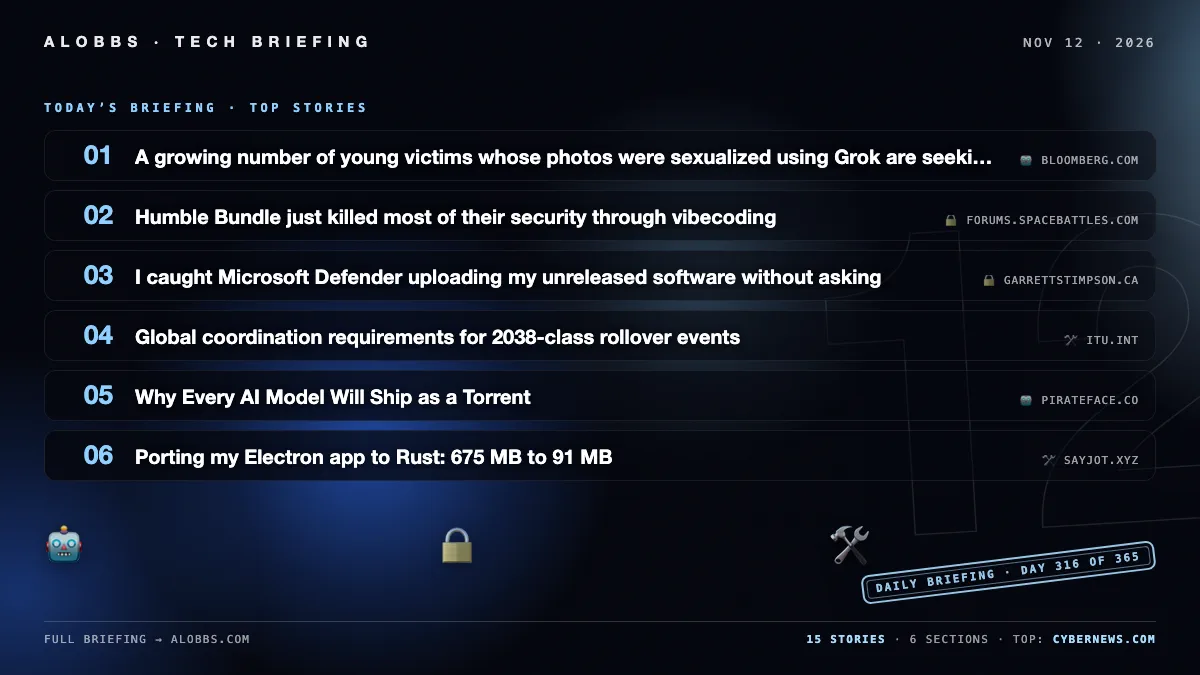
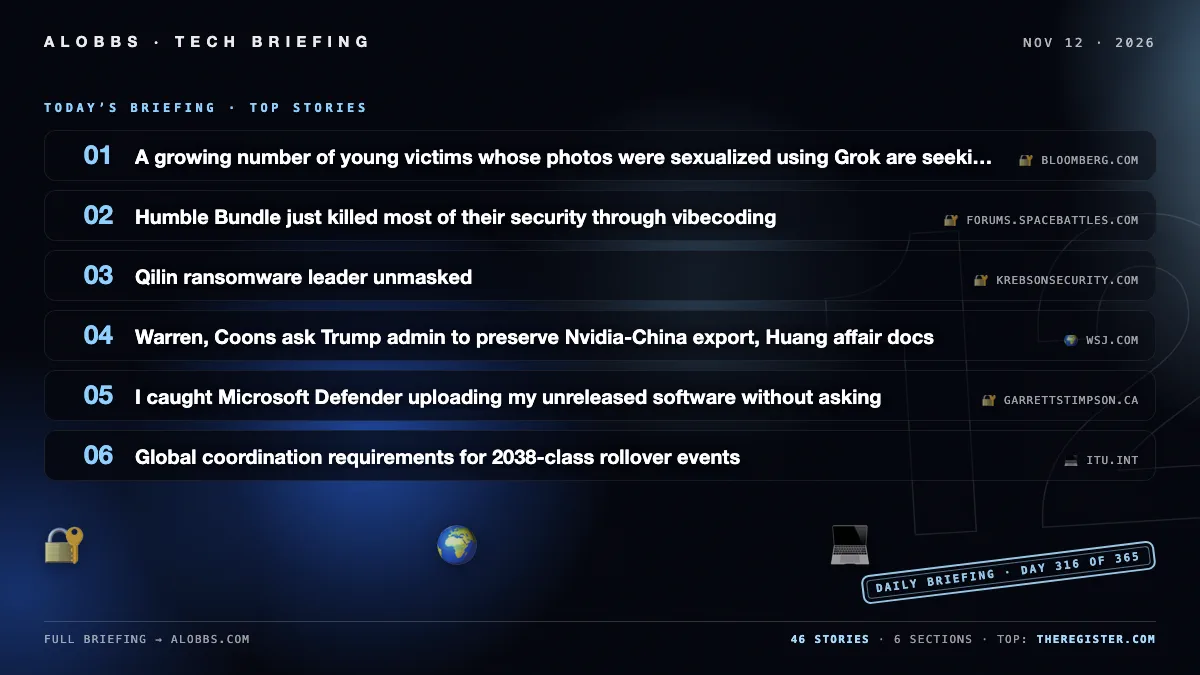
2026-11-12 briefing — 31 new (46 total)

diff --git a/content/post/2026-11-12.md b/content/post/2026-11-12.md
@@ -1,6 +1,6 @@
 ---
 title: "2026-11-12 Briefing"
-date: 2026-11-12 12:02:24.984910
+date: 2026-11-12 12:53:12.897627
 draft: false
 categories: [ "Briefing" ]
 params:
@@ -8,11 +8,11 @@ params:
 cover: "/images/briefings/2026-11-12.webp"
 ---
 
-Leaked files show ex-Marine John Mark Dougan used Claude to mass-produce pro-Russian articles and evade AI detection. Ukraine and Germany dismantled a call-center network behind a €4.3M fake crypto scam, arresting four. Microsoft Defender silently uploaded 217 samples, including unreleased software, from a developer’s PC. Jot’s Electron-to-Rust rewrite cut its app from 675MB to 91MB.
+An Israeli strike on a Gaza hospital killed six, health authorities said. Researchers unmasked Qilin’s alleged administrator, Aleksey Yakovtsev, as the ransomware gang claimed 365 victims in three months. ConnectWise is investigating ScreenConnect attacks via risky extensions, while Amplifon disclosed a breach exposing customer health data. Leaked files also show a former US marine used Claude to mass-produce pro-Russian articles.
 
 <!--more-->
 
-## 🤖 AI Models & Risks
+## 🤖 AI & Machine Learning
 
 ### Leak reveals how former US marine tried to trick Claude into spreading pro-Russian propaganda
 
@@ -26,13 +26,56 @@ The article argues that AI models are well-suited to torrent distribution becaus
 
 - [Why Every AI Model Will Ship as a Torrent](https://pirateface.co/articles/every-ai-model-should-be-a-torrent) — *pirateface.co*
 
-### A growing number of young victims whose photos were sexualized using Grok are seeking to hold xAI...
+### A2UI 1.0
 
-A growing number of young victims whose photos were sexualized using Grok are seeking to hold xAI legally accountable, according to Bloomberg. The cases center on allegations that xAI allowed users to generate such images.
+A2UI 1.0 is the first stable release of an open protocol for generative UI that lets AI agents respond with interactive screens such as forms and charts instead of text-only answers. It includes open-source renderer SDKs for web, Android, and iOS and agent SDKs for Python, TypeScript, and Dart. Companies including Atlassian, Alation, Bloomberg, and ByteDance are already building with it, enabling native, secure, low-latency UI across apps and platforms.
 
-- [A growing number of young victims whose photos were sexualized using Grok are seeking to hold xAI...](https://www.bloomberg.com/features/2026-grok-sexualized-childhood-photos/?accessToken=eyJhbGciOiJIUzI1NiIsInR5cCI6IkpXVCJ9.eyJzb3VyY2UiOiJTdWJzY3JpYmVyR2lmdGVkQXJ0aWNsZSIsImlhdCI6MTc5NDQwNTgwMiwiZXhwIjoxNzk1MDEwNjAyLCJhcnRpY2xlSWQiOiJUT0NBVUxLSUpIOTMwMCIsImJjb25uZWN0SWQiOiJCNzYzRUJEQUI3QjQ0MjNEOTI0Qzc0MzFBNTkyMkZCQyJ9.iQrQRGwQgxw2Q_MsneYnaVoUsKDdoN0XNrxTO4zRiPg) — *bloomberg.com*
+- [A2UI 1.0](https://developers.googleblog.com/a2ui-10-build-delightful-fast-reliable-agentic-experiences/) — *developers.googleblog.com*
 
-## 🔒 Cybersecurity & Privacy
+### Google launches Tabletop, experimental AI platform for collaborative personal planning, in beta
+
+Google has launched Tabletop, an experimental AI platform in beta via waitlist, for building customizable, collaborative personal planning hubs. Users can prompt the AI or choose templates to generate interactive tools like itineraries, polls, expense splitters, and chore charts, then share invite links for real-time collaboration. The beta is currently limited to US users over 18.
+
+- [Google launches Tabletop, experimental AI platform for collaborative personal planning, in beta](https://www.theverge.com/tech/1031526/google-tabletop-ai-experiment-waitlist-availability) — *theverge.com*
+
+### AI 'handoverism': humanity entrusting its future to AI, and what it could look like in practice
+
+The article examines “handoverism” in the AI community—the idea that humanity should entrust the direction of its future to a benevolent superintelligent AI—and notes that even optimistic post-AGI visions leave little room for human self-determination. It describes how some AI builders treat permanent human disempowerment as a resigned alternative to extinction, while raising unresolved questions about democracy, consent, and the displacement of human labor.
+
+- [AI 'handoverism': humanity entrusting its future to AI, and what it could look like in practice](https://www.writingruxandrabio.com/p/handing-over-humanity) — *writingruxandrabio.com*
+
+### Radical Numerics unveils Omnii Defense, offline edge AI to identify natural, AI-made pathogens
+
+Radical Numerics has unveiled Omnii Defense, an edge AI model it says can identify natural and AI-engineered pathogens using a laptop and USB gene sequencer without an internet connection. The startup hopes the tool will help researchers and public health officials detect emerging biological threats, amid warnings that AI could aid bioweapon development.
+
+- [Radical Numerics unveils Omnii Defense, offline edge AI to identify natural, AI-made pathogens](https://www.wired.com/story/startup-fights-ai-bioweapons-with-ai/) — *wired.com*
+
+### Your AI agent is only as good as your endpoint data
+
+The article argues that AI agents are only as effective as the endpoint data they rely on. It says real-time endpoint data keeps AI-driven IT operations accurate, fast, and under control.
+
+- [Your AI agent is only as good as your endpoint data](https://www.theregister.com/ai-and-ml/2026/11/12/partner-content-your-ai-agent-is-only-as-good-as-your-endpoint-data/5308469) — *theregister.com*
+
+## 🔐 Security & Privacy
+
+### IT firms and their clients hit: hackers hijack ScreenConnect, seize remote control
+
+ConnectWise is investigating attacks that compromised ScreenConnect customer environments through suspected third-party extensions, flagging five add-ons and identifying about 400 partner environments with at least one installed. Sophos found attackers installing rogue ScreenConnect clients to gain remote control and hide activity. ConnectWise says it found no evidence of a ConnectWise infrastructure compromise or ScreenConnect vulnerability, and urges partners to disable risky extensions, check logs, revoke sessions, enforce MFA, and isolate affected devices.
+
+- [IT firms and their clients hit: hackers hijack ScreenConnect, seize remote control](https://cybernews.com/security/screenconnect-hijacking-hackers-rogue-software-connectwise/) — *cybernews.com*
+
+### Qilin ransomware leader unmasked
+
+Qilin has become the world’s most active ransomware-as-a-service gang, claiming at least 365 victim organizations in the past three months. Researchers, including Krebs on Security, allege the group is administered by 36-year-old Aleksey Mikhailovich Yakovtsev of St. Petersburg, linking his aliases through operational-security mistakes, hacked forum messages, Telegram usernames, and leaked Russian government records. No law enforcement agency has confirmed the findings, and Russia-based suspects remain difficult to arrest.
+
+- [Russia's Qilin, world's most active ransomware gang, likely led by Aleksey Yakovtsev, 36](https://krebsonsecurity.com/2026/11/who-runs-the-ransomware-group-qilin/) — *krebsonsecurity.com*
+- [Cyber pros unmask Qilin ransomware administrator as St. Petersburg man](https://cybernews.com/security/qilin-ransomware-administrator-unmasked/) — *cybernews.com*
+
+### Amplifon probes data breach affecting customers’ personal and health records
+
+Amplifon has disclosed a data breach in which attackers stole files from multiple systems between January 18 and February 8, exposing customers’ names, contact details, birth dates, driver’s license data, and medical or hearing information. The company says it disabled affected accounts and increased monitoring after detecting suspicious activity. Some law firms claim more than 1.3 million people were affected, but Amplifon has not confirmed that figure.
+
+- [Amplifon probes data breach affecting customers’ personal and health records](https://cybernews.com/news/amplifon-investigates-data-breach-affecting-customers-personal-and-health-records/) — *cybernews.com*
 
 ### Ukraine busts call center network behind €4.3M investment scam
 
@@ -58,7 +101,31 @@ Russian pranksters posing as Ukrainian officials tricked three OpenAI national s
 
 - [Russian pranksters tricked three OpenAI natsec and policy executives into a video meeting by posi...](https://theintercept.com/2026/11/11/openai-ukraine-russia-prank-security/) — *theintercept.com*
 
-## 🐧 Linux & FOSS
+### A growing number of young victims whose photos were sexualized using Grok are seeking to hold xAI...
+
+A growing number of young victims whose photos were sexualized using Grok are seeking to hold xAI legally accountable, according to Bloomberg. The cases center on allegations that xAI allowed users to generate such images.
+
+- [A growing number of young victims whose photos were sexualized using Grok are seeking to hold xAI...](https://www.bloomberg.com/features/2026-grok-sexualized-childhood-photos/?accessToken=eyJhbGciOiJIUzI1NiIsInR5cCI6IkpXVCJ9.eyJzb3VyY2UiOiJTdWJzY3JpYmVyR2lmdGVkQXJ0aWNsZSIsImlhdCI6MTc5NDQwNTgwMiwiZXhwIjoxNzk1MDEwNjAyLCJhcnRpY2xlSWQiOiJUT0NBVUxLSUpIOTMwMCIsImJjb25uZWN0SWQiOiJCNzYzRUJEQUI3QjQ0MjNEOTI0Qzc0MzFBNTkyMkZCQyJ9.iQrQRGwQgxw2Q_MsneYnaVoUsKDdoN0XNrxTO4zRiPg) — *bloomberg.com*
+
+### Hijacking Samsung TV Smart Hub Ads
+
+A Samsung TV owner describes using mitmproxy and the compromised eMudhra CA certificate to intercept the TV’s Smart Hub ad traffic after Pi-hole blocking broke. By routing the TV through a Raspberry Pi transparent proxy, they exploited the trusted but compromised CA certificate to intercept TLS traffic because the TV does not allow custom certificates. The article notes this was possible because Samsung had not yet updated its truststore to revoke the certificate.
+
+- [Hijacking Samsung TV Smart Hub Ads](https://dvratil.cz/2026/11/hijacking-samsung-tv-smart-hub-ads/) — *dvratil.cz*
+
+### Disgraced former CA eMudhra blames buggy script for hopelessly weak certificates
+
+The disgraced former certificate authority eMudhra has blamed a buggy script for producing hopelessly weak certificates. It reportedly could not get the hardware needed to generate certificates and tried to code a workaround.
+
+- [Disgraced former CA eMudhra blames buggy script for hopelessly weak certificates](https://www.theregister.com/security/2026/11/12/disgraced-former-ca-emudhra-blames-buggy-script-for-hopelessly-weak-certificates/5309244) — *theregister.com*
+
+### Another Way Police Are Locating People from Their Smartphones
+
+Penlink’s Webloc is a police-sold tool that collects smartphone location data from commonly used weather, gaming, email, and religious apps. It can build a detailed 12-month location history, update hourly for near real-time tracking, and let law enforcement identify all phones present at a specific place and time.
+
+- [Another Way Police Are Locating People from Their Smartphones](https://www.schneier.com/blog/archives/2026/11/another-way-police-are-locating-people-from-their-smartphones.html) — *schneier.com*
+
+## 💻 Software & Development
 
 ### I'm Working on a FOSS Linux Pinbal Simulation Engine
 
@@ -66,19 +133,11 @@ The developer of a fully FOSS Linux pinball simulation engine reports recent pro
 
 - [I'm Working on a FOSS Linux Pinbal Simulation Engine](https://www.getlazarus.org/forums/topic/17/) — *getlazarus.org*
 
-### Polo Debuts As New Wayland Compositor For MATE Desktop
+### Darling Development Update – Q4 2026
 
-Polo 1.0 has been released as a new Wayland compositor for the MATE desktop. It aims to replicate MATE’s X11 behavior using Marco’s window-management policies, settings, and themes while building on Weston, with XWayland support. Developed by MATE user Kerem Söke, Polo also supports GNOME 2-style effects such as the desktop cube and wobbly windows.
+Darling’s Q4 2026 update covers a new policy on AI-assisted contributions, initial ARM64 support, and plans for future work. The project adopted the AI policy after AI-heavy forks showed strong progress, arguing that refusing AI would leave Darling insignificant and fragment the community. The policy requires contributors to take responsibility for every line in their pull requests and explain it in their own words.
 
-- [Polo Debuts As New Wayland Compositor For MATE Desktop](https://www.phoronix.com/news/Polo-Wayland-Compositor-MATE) — *phoronix.com*
-
-### Orbit Global Menu: A working global menu addon for GNOME
-
-Orbit Global Menu is a working global menu add-on for GNOME. The publication likes the extension but suspects it will be divisive among users, comparing it to Marmite.
-
-- [Orbit Global Menu: A working global menu addon for GNOME](https://www.theregister.com/os-platforms/2026/11/12/orbit-global-menu-a-working-global-menu-addon-for-gnome/5309134) — *theregister.com*
-
-## 🛠 Software Engineering
+- [Darling Development Update – Q4 2026](https://blog.darlinghq.org/2026/11/08/development-update-q4-2026/) — *blog.darlinghq.org*
 
 ### Lean Grimoire
 
@@ -92,15 +151,130 @@ Jot, a Mac capture app, was ported from Electron to Rust using the Rune GPU UI f
 
 - [Porting my Electron app to Rust: 675 MB to 91 MB](https://sayjot.xyz/blog/rust-port) — *sayjot.xyz*
 
+### Adapting CPython for yk
+
+The author adapted the yk meta-tracing JIT to CPython, producing ykcpython, which showed meaningful benchmark gains after roughly 3–4 days of ykcpython work plus about a week and a half of generic yk bug fixes. On the AWFY suite, ykcpython was faster than normal CPython on every benchmark except DeltaBlue and faster than CPython’s experimental JIT on 8 of 13 benchmarks. The author stresses that ykcpython is not production-ready and that benchmark results do not guarantee real-world performance.
+
+- [Adapting CPython for yk](https://tratt.net/laurie/blog/2026/adapting_cpython_for_yk.html) — *tratt.net*
+
+### Creating Diagrams and Graphs Using Modern CSS
+
+The article explores using CSS `border-shape` and `shape()` to draw dynamic connections between elements for graphs and diagrams, selecting the closest sides and switching to center-to-center links when elements are close. It presents conditional CSS code for multiple orientations and distances, noting the technique is experimental and currently fully supported only in Chrome and Edge.
+
+- [Creating Diagrams and Graphs Using Modern CSS](https://blog.master.dev/creating-diagrams-and-graphs-using-modern-css/) — *blog.master.dev*
+
 ### Global coordination requirements for 2038-class rollover events
 
-Technical Paper ITU-T XSTP.epoch consolidates global understanding of risks associated with a
-cluster of structurally distinct timekeeping discontinuities arriving between 2036 and 2038, with
-the 2106 horizon treated as a long-tail consideration (collectively referred to as 2038-class risks).
+A new ITU-T technical paper, XSTP.epoch, consolidates global understanding of the risks posed by a cluster of structurally distinct timekeeping discontinuities expected between 2036 and 2038. These events, collectively called 2038-class risks, require global coordination, while the 2106 horizon is treated as a long-term consideration.
 
 - [Global coordination requirements for 2038-class rollover events](https://www.itu.int/pub/T-TUT-ICTS-2026-6) — *itu.int*
 
-## 🌍 Tech Policy & Sovereignty
+### Microsoft admits SQL Servers might wobble after October update
+
+Microsoft has acknowledged that SQL Servers may experience issues following its October update, with linked server connections lingering longer than expected. The problem can leave connections open well past their intended duration.
+
+- [Microsoft admits SQL Servers might wobble after October update](https://www.theregister.com/databases/2026/11/12/microsoft-admits-sql-servers-might-wobble-after-october-update/5309349) — *theregister.com*
+
+### Orbit Global Menu: A working global menu addon for GNOME
+
+Orbit Global Menu is a working global menu add-on for GNOME. The publication likes the extension but suspects it will be divisive among users, comparing it to Marmite.
+
+- [Orbit Global Menu: A working global menu addon for GNOME](https://www.theregister.com/os-platforms/2026/11/12/orbit-global-menu-a-working-global-menu-addon-for-gnome/5309134) — *theregister.com*
+
+## 💵 Business & Funding
+
+### Nvidia's Disappearing Singapore Sales Deepen Mystery Around Megaspeed
+
+Singapore was one of Nvidia’s largest markets, generating 22% of its revenue as recently as last summer, before disappearing from the company’s financial disclosures almost overnight. The article says investors deserve an explanation for the sudden change and that Nvidia needs to address it.
+
+- [Nvidia's Disappearing Singapore Sales Deepen Mystery Around Megaspeed](https://www.wsj.com/business/earnings/nvidias-disappearing-singapore-sales-deepen-mystery-around-megaspeed-7d483180) — *wsj.com*
+
+### SE3 raises $30M Series A led by Accel for 3D battlefield mapping software
+
+SE3, a Munich-based startup developing AI software for drones and unmanned military systems, has raised $30 million in a Series A led by Accel, with Keen, Lakestar and Seedcamp participating. Its software fuses video and sensor feeds into a 3D battlefield map that soldiers can query and command in natural language, and provides onboard AI for GPS-denied navigation, object detection and drone swarming. SE3 has contracts with Germany’s Bundeswehr and in Ukraine, uses classical computer vision with a harnessed language model, runs offline, is hardware-agnostic, and is subject to German export laws.
+
+- [SE3 raises $30M Series A led by Accel for 3D battlefield mapping software](https://fortune.com/2026/11/12/exclusive-se3-a-munich-startup-building-spatial-intelligence-for-military-drones-gets-30-million-in-series-a-funding/) — *fortune.com*
+
+### Q-Ctrl raises $290M at $1B+ valuation for GPS-free ship and aircraft navigation sensors
+
+Q-Ctrl, an Australian quantum software startup developing sensors that help ships and aircraft navigate when GPS is unavailable, raised $290 million in a funding round led by Salesforce Ventures. The round values the company at more than $1 billion.
+
+- [Q-Ctrl raises $290M at $1B+ valuation for GPS-free ship and aircraft navigation sensors](https://www.bloomberg.com/news/articles/2026-11-12/kushner-s-affinity-salesforce-back-quantum-startup-q-ctrl-in-290-million-round) — *bloomberg.com*
+
+### Sources: Alice Huang’s husband/biz partner discussed her Jensen Huang relationship; introduced them
+
+Kang Wei, Alice Huang’s husband, introduced her to Nvidia CEO Jensen Huang, whom Kang had known for a decade. For two years, Kang appeared to accept his wife’s romantic relationship with Jensen and spoke openly about their closeness, sometimes joking she was the CEO’s personal assistant. The introduction exemplifies how Kang and Alice leveraged personal connections to advance business ventures across China, Singapore, Taiwan, and elsewhere.
+
+- [Sources: Alice Huang’s husband/biz partner discussed her Jensen Huang relationship; introduced them](https://www.wsj.com/tech/ai/a-mystery-businessman-introduced-jensen-huang-to-his-paramourher-husband-1ec3b581?st=7WHtD8&amp;reflink=desktopwebshare_permalink) — *wsj.com*
+
+### Nvidia board backs CFO as interim CEO
+
+Some Nvidia board members favor CFO Colette Kress as interim CEO if founder Jensen Huang is ousted, with the full board set to meet Wednesday evening and the board having briefed the White House; Nvidia is preparing to remove Huang after reports of a second extramarital affair while an outside firm searches for a permanent CEO. Nvidia shares fell more than 8% in after-hours trading to a 52-week low. Bloomberg reports potential successors also include Ian Buck, Rene Haas, and Johny Srouji, though replacing Huang would be a daunting challenge at the world’s most valuable chipmaker.
+
+- [Nvidia board members back CFO Colette Kress as interim CEO; board briefed White House](https://www.semafor.com/article/11/11/2026/nvidia-board-preparing-to-oust-ceo-huang-wsj) — *semafor.com*
+- [Potential Nvidia CEO candidates: Colette Kress, Ian Buck, Rene Haas, Johny Srouji (Bloomberg)](https://www.bloomberg.com/news/articles/2026-11-12/nvidia-drama-triggers-difficult-search-for-huang-s-successor) — *bloomberg.com*
+
+### London's Uforce raises $700M at $6B valuation, co-led by UK National Wealth Fund, Valor Equity
+
+London-based Uforce, which makes unmanned air, sea, and land vehicles, raised $700 million in a round co-led by the UK National Wealth Fund and Valor Equity at a $6 billion valuation. The UK National Wealth Fund called it its largest defense investment, and Uforce was initially formed in Ukraine.
+
+- [London's Uforce raises $700M at $6B valuation, co-led by UK National Wealth Fund, Valor Equity](https://www.bloomberg.com/news/articles/2026-11-12/drone-startup-uforce-valued-at-6-billion-with-uk-wealth-fund-backing) — *bloomberg.com*
+
+### Tencent's Pony Ma willing to deploy half of 100,000 staff to AI-native businesses
+
+Tencent founder Pony Ma said in his annual speech that he is willing to deploy up to half of the company’s 100,000-strong workforce to AI-native businesses, according to Bloomberg sources. The reported remarks signal a major push by Tencent into AI-focused operations.
+
+- [Tencent's Pony Ma willing to deploy half of 100,000 staff to AI-native businesses](https://www.bloomberg.com/news/articles/2026-11-12/tencent-founder-rallies-half-of-staff-behind-ai-native-push) — *bloomberg.com*
+
+### Foxconn Q3 revenue up 47% to $95.4B, net income up 34%, on AI/iPhone demand; sees strong 2027
+
+Foxconn reported Q3 revenue up 47% year over year to about $95.4B and net income up 34% to about $2.4B, beating estimates, driven by AI and iPhone Duo demand. The company forecast strong 2027 sales, citing soaring global AI spending.
+
+- [Foxconn Q3 revenue up 47% to $95.4B, net income up 34%, on AI/iPhone demand; sees strong 2027](https://www.bloomberg.com/news/articles/2026-11-12/nvidia-partner-hon-hai-beats-profit-estimates-on-ai-iphone-duo) — *bloomberg.com*
+
+### AMD +4% after hours after +7.3% close; Broadcom +2.4% AH; Nvidia board weighs ousting CEO Huang
+
+AMD shares rose more than 4% after hours after closing up 7.3%, and Broadcom gained 2.4% after hours following a 4% gain. Meanwhile, Nvidia’s stock sank almost 9% in after-market trading as its board reportedly weighs ousting CEO Jensen Huang.
+
+- [AMD +4% after hours after +7.3% close; Broadcom +2.4% AH; Nvidia board weighs ousting CEO Huang](https://www.ft.com/content/a93307a7-e2cd-4abd-bd89-c38832d8c40e) — *ft.com*
+
+### Roku says it will wind down sales of smart home hardware to focus on streaming, days after Fox cl...
+
+Roku is winding down sales of smart home hardware to focus on its core streaming platform, days after Fox completed its acquisition of the company. It will continue supporting and servicing existing Roku Smart Home devices.
+
+- [Roku says it will wind down sales of smart home hardware to focus on streaming, days after Fox cl...](https://www.lowpass.cc/p/scoop-roku-is-exiting-the-smart-home-business) — *lowpass.cc*
+
+## 🌍 Geopolitics & Policy
+
+### Israeli strike on a Gaza hospital kills 6 people, health authorities say
+
+An Israeli strike on a hospital in Gaza killed six people, according to local health authorities. No further details were immediately available.
+
+- [Israeli strike on a Gaza hospital kills 6 people, health authorities say](https://apnews.com/article/gaza-israel-hospital-strike-people-killed-50b547b5a82388b6b415aee4d776fbfb) — *apnews.com*
+
+### Zelenskyy: Starshield saw 'systematic speed restrictions'; Kyiv sees pressure tactic in peace talks
+
+Ukrainian President Volodymyr Zelenskyy said Starshield faced “systematic speed restrictions” for several days, and Ukrainian officials believe the disruption is meant to pressure Kyiv amid peace talks. The Ukrainian army is struggling to intercept Russian jet-powered drones as Steve Witkoff and Jared Kushner meet Vladimir Putin.
+
+- [Zelenskyy: Starshield saw 'systematic speed restrictions'; Kyiv sees pressure tactic in peace talks](https://www.ft.com/content/6cd890f1-2e4d-468a-807f-529f45e1678e) — *ft.com*
+
+### Beijing: US must stop 'Chinese spy' pretext for tech curbs; Trump-Xi meet next week
+
+Beijing urged Washington to stop fabricating a “Chinese spy” narrative as a pretext for technology restrictions. The statement comes as Bloomberg reports that US President Donald Trump and Chinese President Xi Jinping are due to meet next week. The article also references US spying allegations involving Nvidia CEO Jensen Huang.
+
+- [Beijing: US must stop 'Chinese spy' pretext for tech curbs; Trump-Xi meet next week](https://www.bloomberg.com/news/articles/2026-11-12/china-says-us-should-not-use-huang-scandal-to-justify-tech-curbs) — *bloomberg.com*
+
+### Commerce finalizing chip control update to block remote access, smuggling to China via data centers
+
+The Commerce Department is finalizing a semiconductor control update aimed at preventing Chinese AI firms from remotely accessing advanced AI chips through data centers and curbing chip smuggling into China, according to sources. The long-awaited rule is intended to close loopholes in existing export controls.
+
+- [Commerce finalizing chip control update to block remote access, smuggling to China via data centers](https://www.theinformation.com/articles/commerce-department-finalizing-long-awaited-ai-remote-access-rule) — *theinformation.com*
+
+### Warren, Coons ask Trump admin to preserve Nvidia-China export, Huang affair docs
+
+Sens. Elizabeth Warren and Chris Coons asked the Trump administration to preserve all documents related to Nvidia’s chip exports to China and CEO Jensen Huang’s affair with a suspected Chinese intelligence asset. In a letter to Commerce Secretary Howard Lutnick, Secretary of State Marco Rubio, and White House chief of staff Stephen Miller, they requested confirmation by Tuesday that staff have been directed to retain all communications and records. The request is seen as an initial step before possible formal congressional investigations.
+
+- [Warren, Coons ask Trump admin to preserve Nvidia-China export, Huang affair docs](https://www.wsj.com/politics/policy/top-democrats-target-trump-administrations-nvidia-china-records-0c212746) — *wsj.com*
 
 ### European tech buyers add digital sovereignty to cyber shopping list
 
@@ -108,10 +282,22 @@ European tech buyers are increasingly adding digital sovereignty to their cybers
 
 - [European tech buyers add digital sovereignty to cyber shopping list](https://www.theregister.com/security/2026/11/12/european-tech-buyers-add-digital-sovereignty-to-cyber-shopping-list/5309216) — *theregister.com*
 
-## 📺 Consumer Tech & Streaming
+## 📡 Platforms & Infrastructure
 
-### Roku says it will wind down sales of smart home hardware to focus on streaming, days after Fox cl...
+### Polo Debuts As New Wayland Compositor For MATE Desktop
 
-Roku is winding down sales of smart home hardware to focus on its core streaming platform, days after Fox completed its acquisition of the company. It will continue supporting and servicing existing Roku Smart Home devices.
+Polo 1.0 has been released as a new Wayland compositor for the MATE desktop. It aims to replicate MATE’s X11 behavior using Marco’s window-management policies, settings, and themes while building on Weston, with XWayland support. Developed by MATE user Kerem Söke, Polo also supports GNOME 2-style effects such as the desktop cube and wobbly windows.
 
-- [Roku says it will wind down sales of smart home hardware to focus on streaming, days after Fox cl...](https://www.lowpass.cc/p/scoop-roku-is-exiting-the-smart-home-business) — *lowpass.cc*
+- [Polo Debuts As New Wayland Compositor For MATE Desktop](https://www.phoronix.com/news/Polo-Wayland-Compositor-MATE) — *phoronix.com*
+
+### AWS distills its cloud into a local emulator that runs on your PC
+
+AWS has released a local emulator that distills its cloud services to run on a PC, offering APIs for testing applications locally. The tool aims to bring hyperscale cloud capabilities to micro-computing environments.
+
+- [AWS distills its cloud into a local emulator that runs on your PC](https://www.theregister.com/off-prem/2026/11/12/aws-distills-its-cloud-into-a-local-emulator-that-runs-on-your-pc/5309251) — *theregister.com*
+
+### Russian cloud Yandex says drone attacks on its datacenters caused data loss
+
+Yandex says drone attacks on its data centers caused data loss. The Russian cloud provider is now enabling backups by default and hinting that some on-premises infrastructure can be useful.
+
+- [Russian cloud Yandex says drone attacks on its datacenters caused data loss](https://www.theregister.com/off-prem/2026/11/12/russian-cloud-yandex-says-drone-attacks-on-its-datacenters-caused-data-loss/5309234) — *theregister.com*
